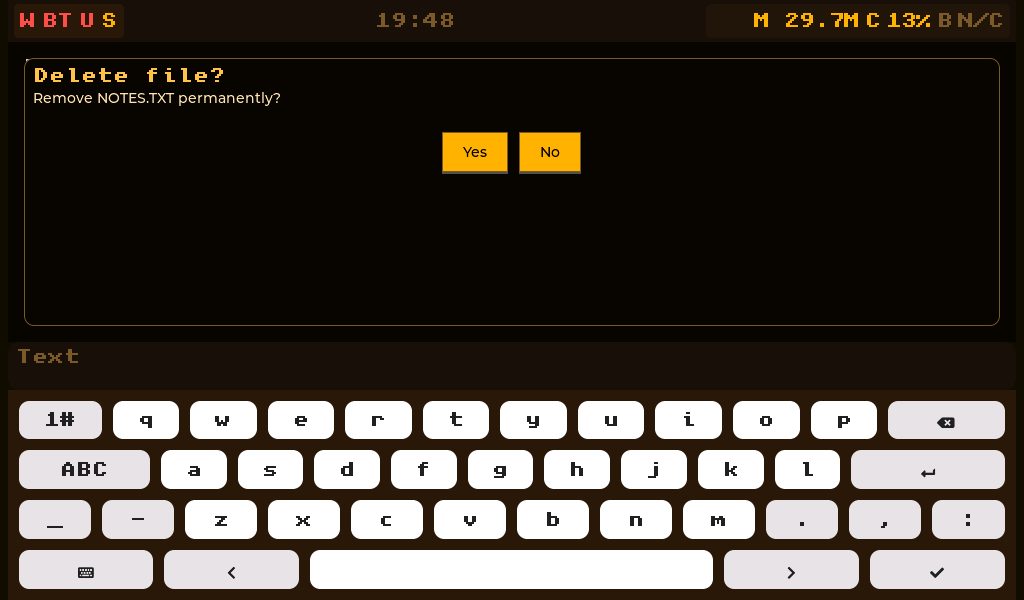
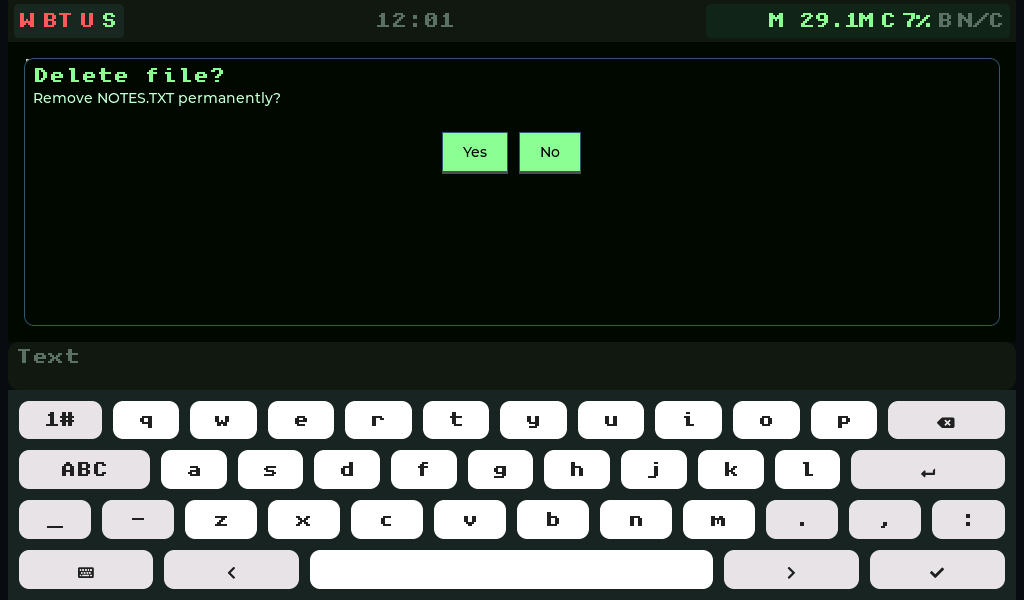
docs(assets): refresh all 11 screenshots; document the gate
Captured on the reference board with the determinism prelude (fixed clock,
steady caret, station disconnected) and verified pixel-exact against a second
capture: all 11 states match.

- docs/assets/*.png refreshed (the old set showed live Wi-Fi retry spam)
- harness.md 7: the docs-screenshot gate, what it masks and why
- tools/README.md: capture_docs + screenshot_gate + the mask file
- release.md: the release checklist now requires a refreshed, pixel-checked set

diff --git a/harness.md b/harness.md
@@ -318,6 +318,14 @@ logic (`tools/README.md` has the full list).
 Some failures leave no serial trace; these use a webcam and prefer observation
 over guessing (`ai-context.md` §5):
 
+- **`tools/screenshot_gate.py`** — the deterministic docs-screenshot gate (no
+  camera): renders the curated states from `tools/capture_docs.py` and compares
+  each frame with `docs/assets/<name>.png` pixel for pixel. `--update` refreshes
+  the baselines and immediately proves them reproducible; a plain run compares
+  against them and writes `screenshots/visual/<name>.diff.png` (differences in
+  red). `tools/screenshot_masks.json` documents the two masked transient
+  regions: the header's live telemetry and the LVGL caret. Run it after any
+  change that can move a pixel (theme, font, layout, header, OSK, gfx).
 - **`tools/display_glitch_watch.py`** — detects the MIPI-DSI "BSOD" blue
   flash by tracking `mean(blue) − mean(red)` over a panel ROI and saving peak
   frames. Flags: `--calibrate`, `--preview`, `--roi`, `--index`, `--device`,

diff --git a/tools/README.md b/tools/README.md
@@ -136,6 +136,13 @@ holder per port.
   - Screenshots: `grab_screenshot.py` (`--port/--out/--crop-transcript`,
     BMPX binary protocol), `capture_tui.py` (`--port`, TUI regression +
     goldens), `get_screenshot.py`, `save_to_sd.py` (legacy helpers).
+  - Docs screenshots: `tools/capture_docs.py` drives the curated states and
+    writes `docs/assets/*.png`; `tools/screenshot_gate.py --update` does the
+    same and then proves the frames are reproducible, while a plain
+    `screenshot_gate.py` compares a fresh capture with the committed baseline
+    pixel for pixel (`tools/screenshot_masks.json` documents the two masked
+    transient regions: header telemetry and the caret). A mismatch writes
+    `screenshots/visual/<name>.diff.png` with the differing pixels in red.
   - Static tree checks (no hardware): `verify.py`, `final_check.py`,
     `final_verify.py` — run from the repo root.
 - `apps/companion/` drivers (not here, same conventions): `deep_test.py`

diff --git a/release.md b/release.md
@@ -245,6 +245,10 @@ Release is ready when **all** boxes below are true:
       section updated; `bugs.md` header current.
 - [ ] Zero build warnings on both boards (firmware + `test/`).
 - [ ] Unit suite green on both boards; `test/README.md` count refreshed.
+- [ ] Documentation screenshots refreshed and pixel-checked
+      (`python tools/screenshot_gate.py --update`, then
+      `python tools/screenshot_gate.py`; the browser dashboard shot comes from
+      `s20_website`).
 - [ ] `p4test` full sweep + `regression.py` + `boot_regression` green on both boards.
 - [ ] F27 closed (or the release explicitly documents it as a known issue with a
       repro) and deferred-hardware features verified or labelled experimental.
